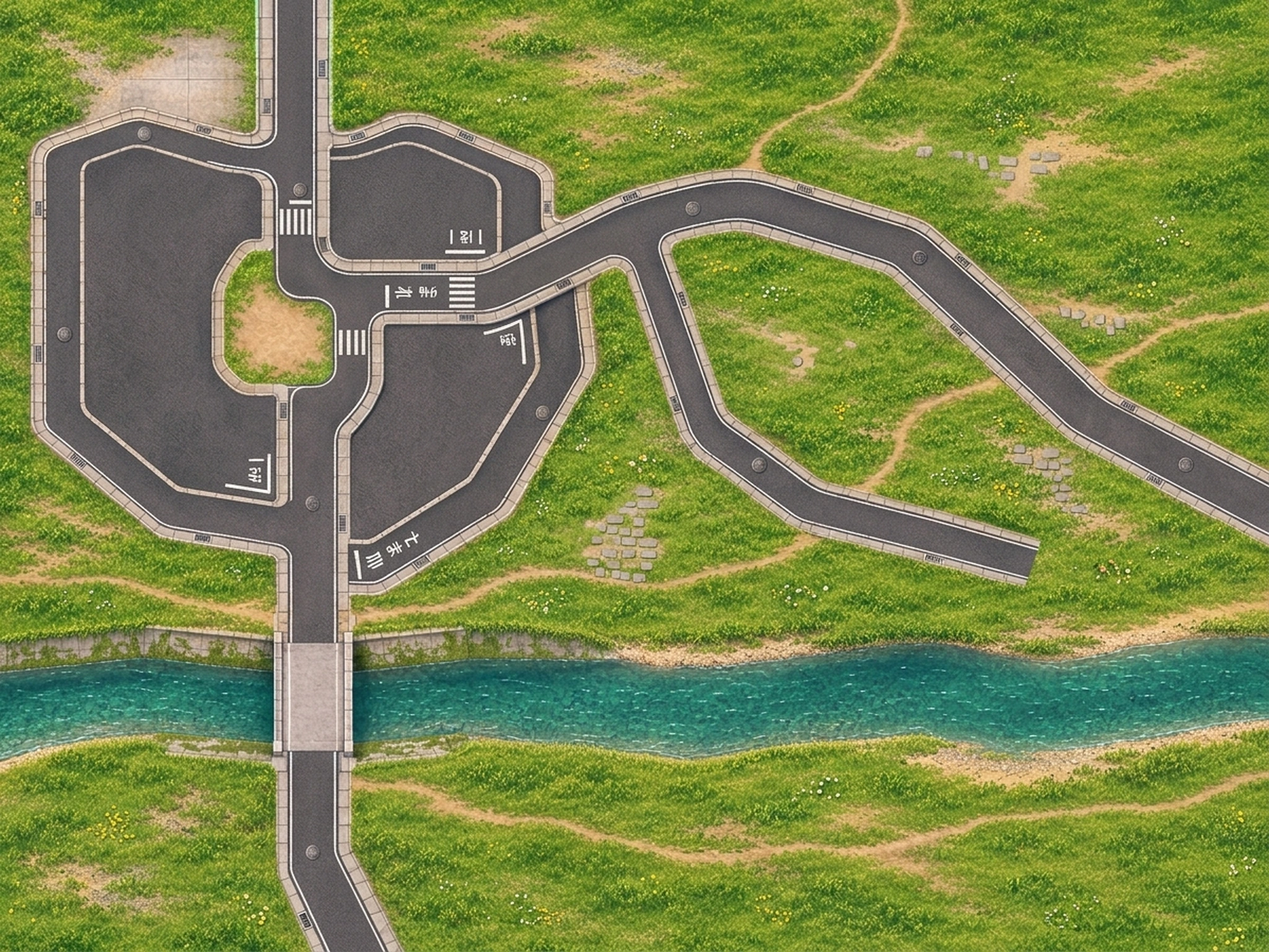
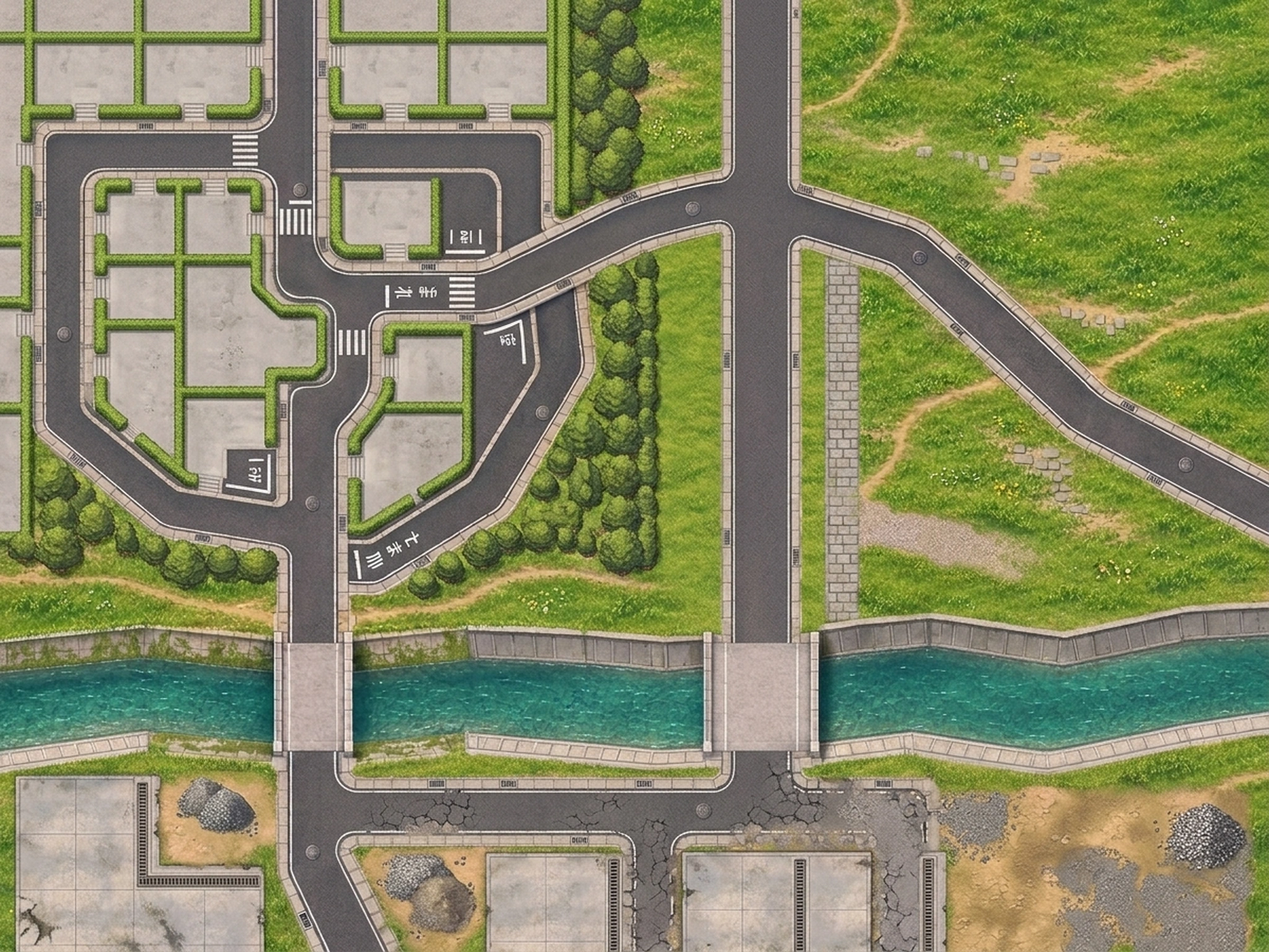
feat(mapa): reconstrução completa de Karakura em 4 setores guiados estilo Pokémon ORAS
- Substitui o terreno aberto aleatório por um mapa estruturado em 4 setores lineares guiados:
  * Setor 1: Bairro Residencial Karakura (asfalto nítido, calçadas, meio-fio e lotes murados)
  * Setor 2: Rota 1 do Bosque (estrada pavimentada canalizada por bosques densos)
  * Setor 3: Dique do Rio Onagawa e travessia da Grande Ponte canalizada
  * Setor 4: Periferia Industrial com galpões, asfalto rachado e pátios de brita
- Atualiza build_karakura.py para cálculo exato de água do rio e travessia das pontes
- Regenera karakura.tmj, worldSceneData.json e catalog.json com SHA-256 verificado
- 626/626 testes vitest passando e 2/2 testes E2E Playwright aprovados

diff --git a/art/maps/scenes/build_karakura.py b/art/maps/scenes/build_karakura.py
@@ -48,7 +48,8 @@ def main():
     for y in range(h):
         for x in range(w):
             r, g, b = ground.getpixel((x*T+16, y*T+16))
-            water = .63*h < y < .83*h and g > r+22 and b > r+20
+            is_bridge = (14 <= x <= 17) or (36 <= x <= 40)
+            water = (32 <= y <= 38) and (not is_bridge) and (g > r+22 or b > r+20)
             material = "agua" if water else "calcada" if x < 32 and y < 30 else "grama"
             chao[y*w+x] = keys[f"{material}{x%4}{y%4}"]+1
             if water:
